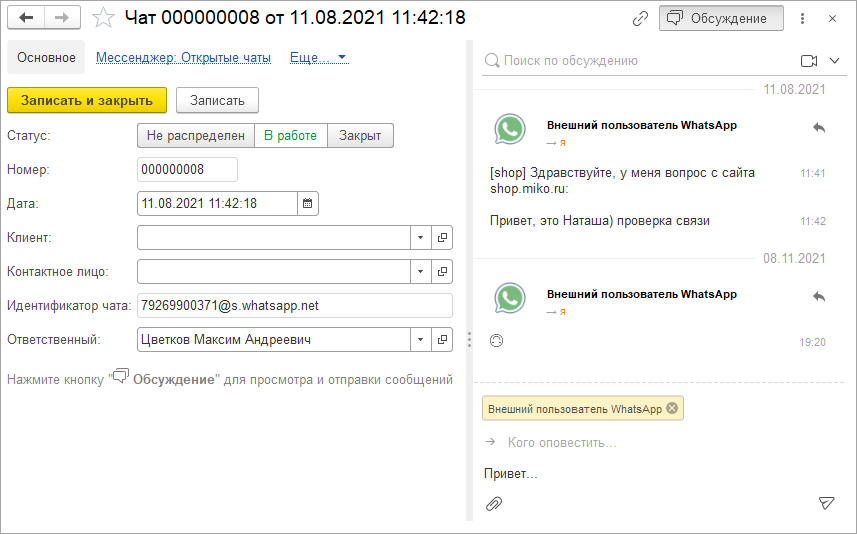
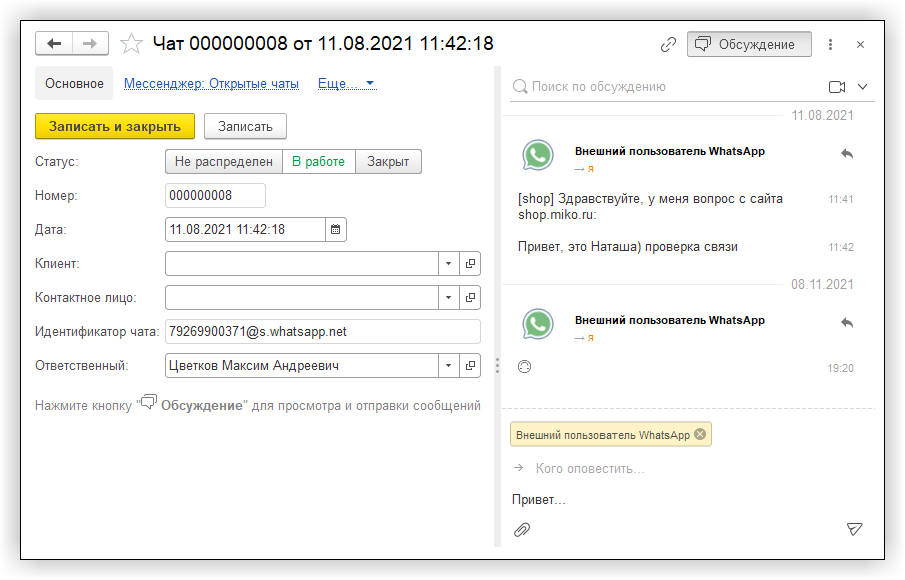
Обновил картинки в разделе чатов

diff --git a/src/user-guides/messenger/processing-queue.md b/src/user-guides/messenger/processing-queue.md
@@ -21,7 +21,7 @@ order: -2
 В панели телефонии отображаются чаты со статусами **в очереди** и **в работе**. В последнем случае отображаются только
 те чаты, где текущий сотрудник является владельцем. Чтобы стать владельцем чата достаточно ответить на первое сообщение.
 
-![](~/assets/whatsapp/chat-panel.png)
+[![](~/assets/whatsapp/chat-panel-preview.png)](~/assets/whatsapp/chat-panel.png)
 
 ##### Для обработки сообщения:
 1. Перейдите в раздел `Чаты`.
@@ -33,7 +33,7 @@ order: -2
 Для чтения и отправки сообщений в 1С используется встроенный платформу механизм **Обсуждения**. Все чаты привязаны к
 конкретным объектам **Чат**, расположенным в разделе **Звонки и сообщения**.
 
-![](~/assets/whatsapp/chat-1c.png)
+[![](~/assets/whatsapp/chat-1c-preview.png)](~/assets/whatsapp/chat-1c.png)
 
 ##### Для обработки сообщения:
 1. В разделе `Звонки и сообщения` откройте `Чаты`.
